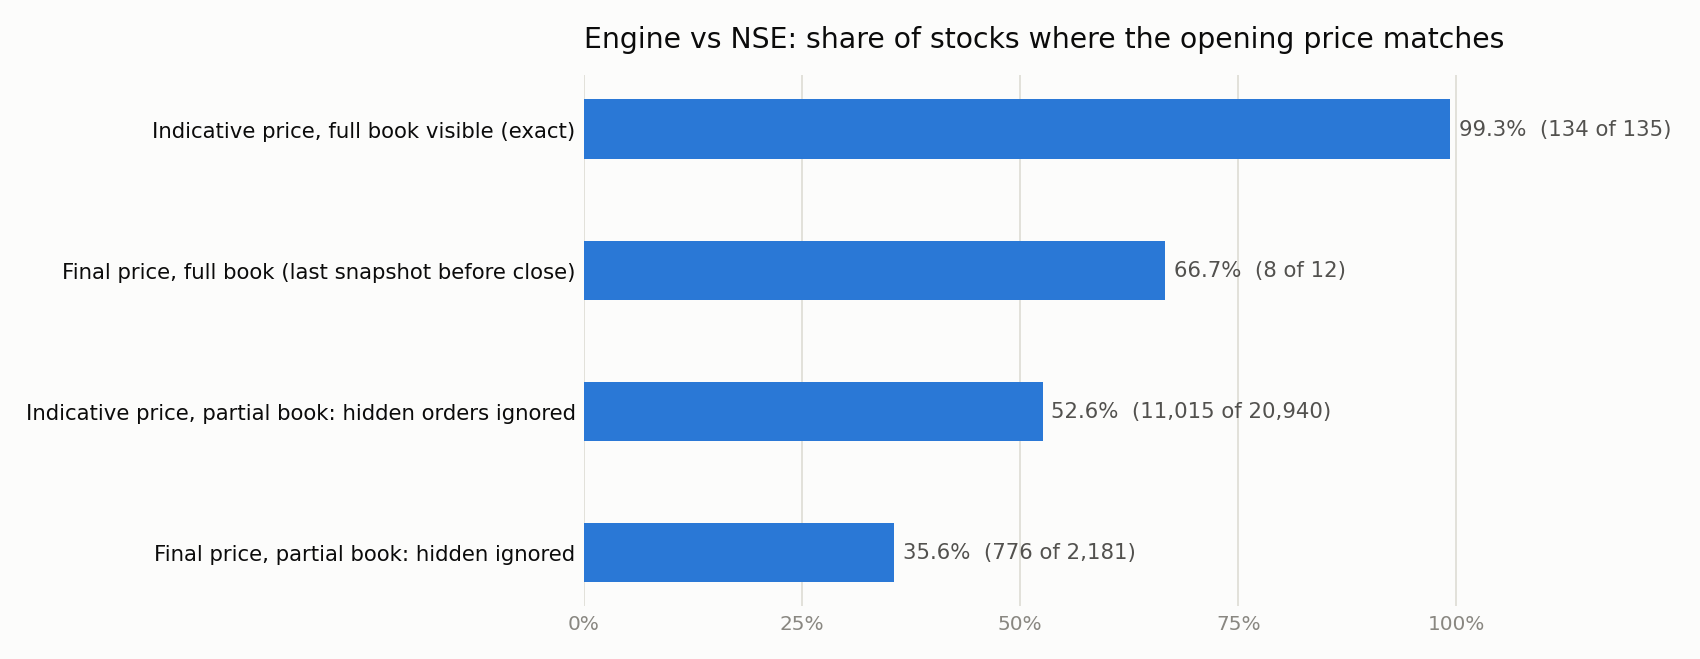
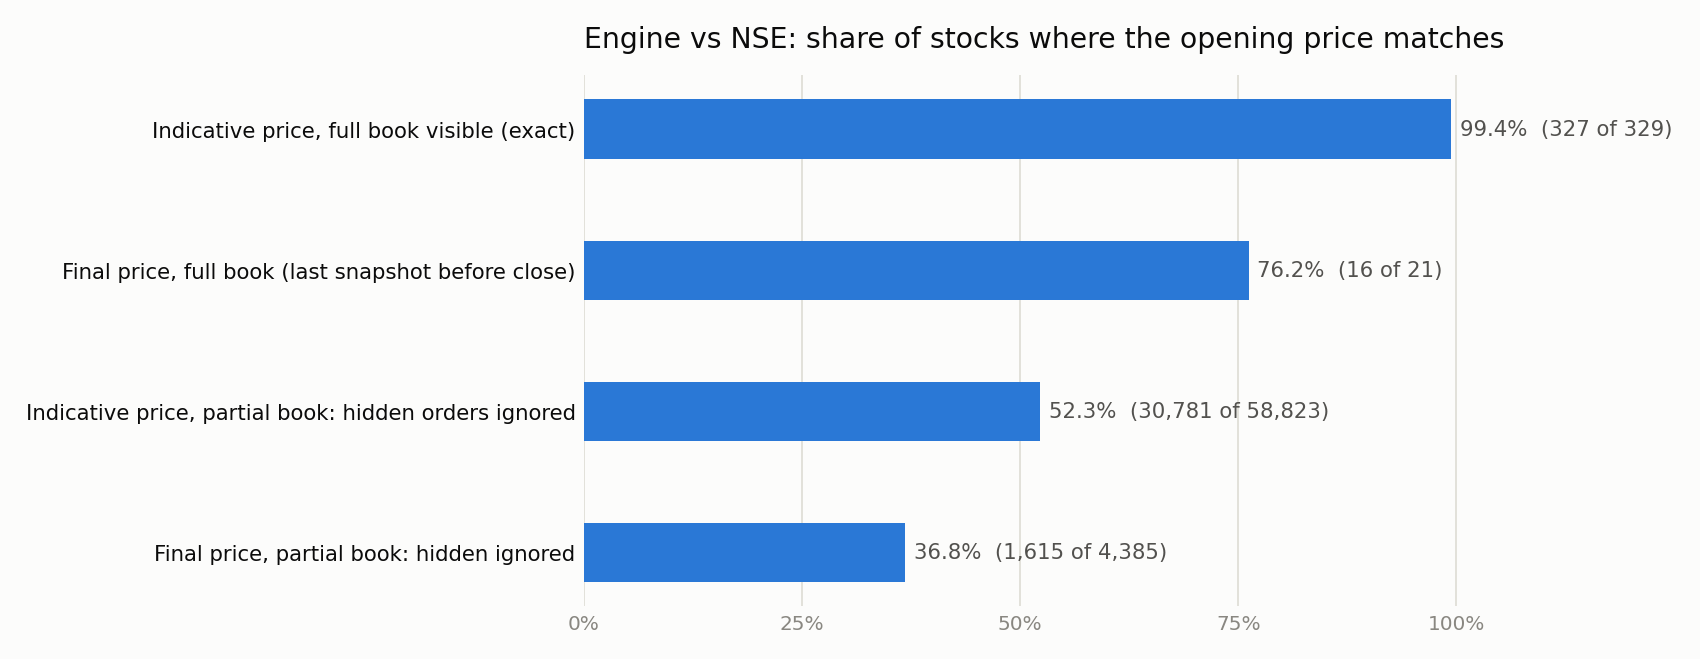
Real-data results for two trading days
7 Oct adds 194 exact checks: 327 of 329 full-book indicative prices now
match NSE. Both misses are from the session's first snapshot and are the
same effect (NSE's price one order behind its book). Final full-book
result: 16 of 21, all 5 misses explained by late orders.

diff --git a/README.md b/README.md
@@ -9,7 +9,7 @@ at 9:15. It's checked against NSE's own published prices, against an independent
 
 | | |
 |---|---|
-| **Real NSE data** | Matches NSE's indicative opening price on **134 of 135** stocks whose whole book is visible; the one miss is traced to NSE publishing its price one order behind its book |
+| **Real NSE data** | Matches NSE's indicative opening price on **327 of 329** checks where the whole book is visible (2 trading days); both misses are traced to NSE publishing its price one order behind its book |
 | **Random cross-check** | **20,000** random mornings vs a separate Python engine: **0 mismatches** (250,000+ trades compared) |
 | **Speed** | **5.6–6.5 million events/s**; a new order in the normal market takes **~180 ns** typically, **~0.7 µs** at p99 |
 | **Tests** | 67 in `ctest`, including a golden file and a random cross-check; clean under AddressSanitizer and UBSan |
@@ -61,18 +61,19 @@ the same book and must give the same answer.
 
 ![Engine vs NSE](docs/results/real-data.png)
 
-- **Exact, where the whole book is visible: 134 / 135.** The miss (HYBRIDFIN, 09:00:11) is explained
-  automatically: NSE's price equals the book's result with its newest order removed, so NSE published the price
-  one order behind the book. Its next snapshot agreed with the engine.
-- **Final result, full book: 8 / 12.** All 4 misses are explained by orders arriving in the ~30 s between NSE's
-  last refresh and the close (NSE's own last indicative price moved too).
+- **Exact, where the whole book is visible: 327 / 329** over two trading days. Both misses (HYBRIDFIN on 6 Oct,
+  SHARDUL on 7 Oct) come from the session's first snapshot at 09:00:11 and are explained automatically: NSE's
+  price equals the book's result with its newest order removed, so NSE published the price one order behind
+  the book. The next snapshots agreed with the engine.
+- **Final result, full book: 16 / 21.** All 5 misses are explained by orders arriving in the seconds between
+  NSE's last refresh and the close (NSE's own last indicative price moved too).
 - **Market orders count at every price**, as the rules say: all 83 full books containing market orders match,
   against only 38 if market orders were left out.
-- **Partial books (52.6%)** are an approximation, not a correctness test: NSE shows only ~10 price levels, so
+- **Partial books (~52%)** are an approximation, not a correctness test: NSE shows only ~10 price levels, so
   hidden orders have to be guessed.
 
-Details and every mismatch: [docs/results/real-data-results.md](docs/results/real-data-results.md). One trading day so far
-(2026-10-06); the numbers grow as the collector runs.
+Details and every mismatch: [docs/results/real-data-results.md](docs/results/real-data-results.md). Two trading days so
+far (6–7 Oct 2026); the numbers grow as the collector runs.
 
 ### Against an independent implementation
 

diff --git a/docs/results/real-data-results.md b/docs/results/real-data-results.md
@@ -24,7 +24,19 @@ Generated by `tools/verify/validate_real.py` from NSE pre-open snapshots collect
 | final: partial book, hidden aggressive | 2,181 | 103 (4.7%) | 26 | 976 of 2,078 |
 | final: full book | 12 | 8 (66.7%) | 7 | 4 of 4 |
 
+## 2026-10-07: 18 pre-close snapshots
+
+| Check | Stocks × snapshots | Price matches | Price + quantity match | Mismatches explained by late orders |
+|---|---|---|---|---|
+| indicative: partial book, visible only | 37,883 | 19,766 (52.2%) | – | – |
+| indicative: partial book, hidden aggressive | 37,883 | 2,569 (6.8%) | – | – |
+| indicative: full book | 194 | 193 (99.5%) | – | – |
+| final: partial book, visible only | 2,204 | 839 (38.1%) | 709 | 685 of 1,365 |
+| final: partial book, hidden aggressive | 2,204 | 108 (4.9%) | 27 | 690 of 2,096 |
+| final: full book | 9 | 8 (88.9%) | 8 | 1 of 1 |
+
 ## Every full-book indicative mismatch, explained
 
 - HYBRIDFIN at 09:00:11: engine 17.43, NSE 16.15. NSE's price matches the book without its newest order (buy 500 @ 17.43).
+- SHARDUL at 09:00:11: engine 58.25, NSE 58.50. NSE's price matches the book without its newest order (sell 295 @ 58.25).
 
